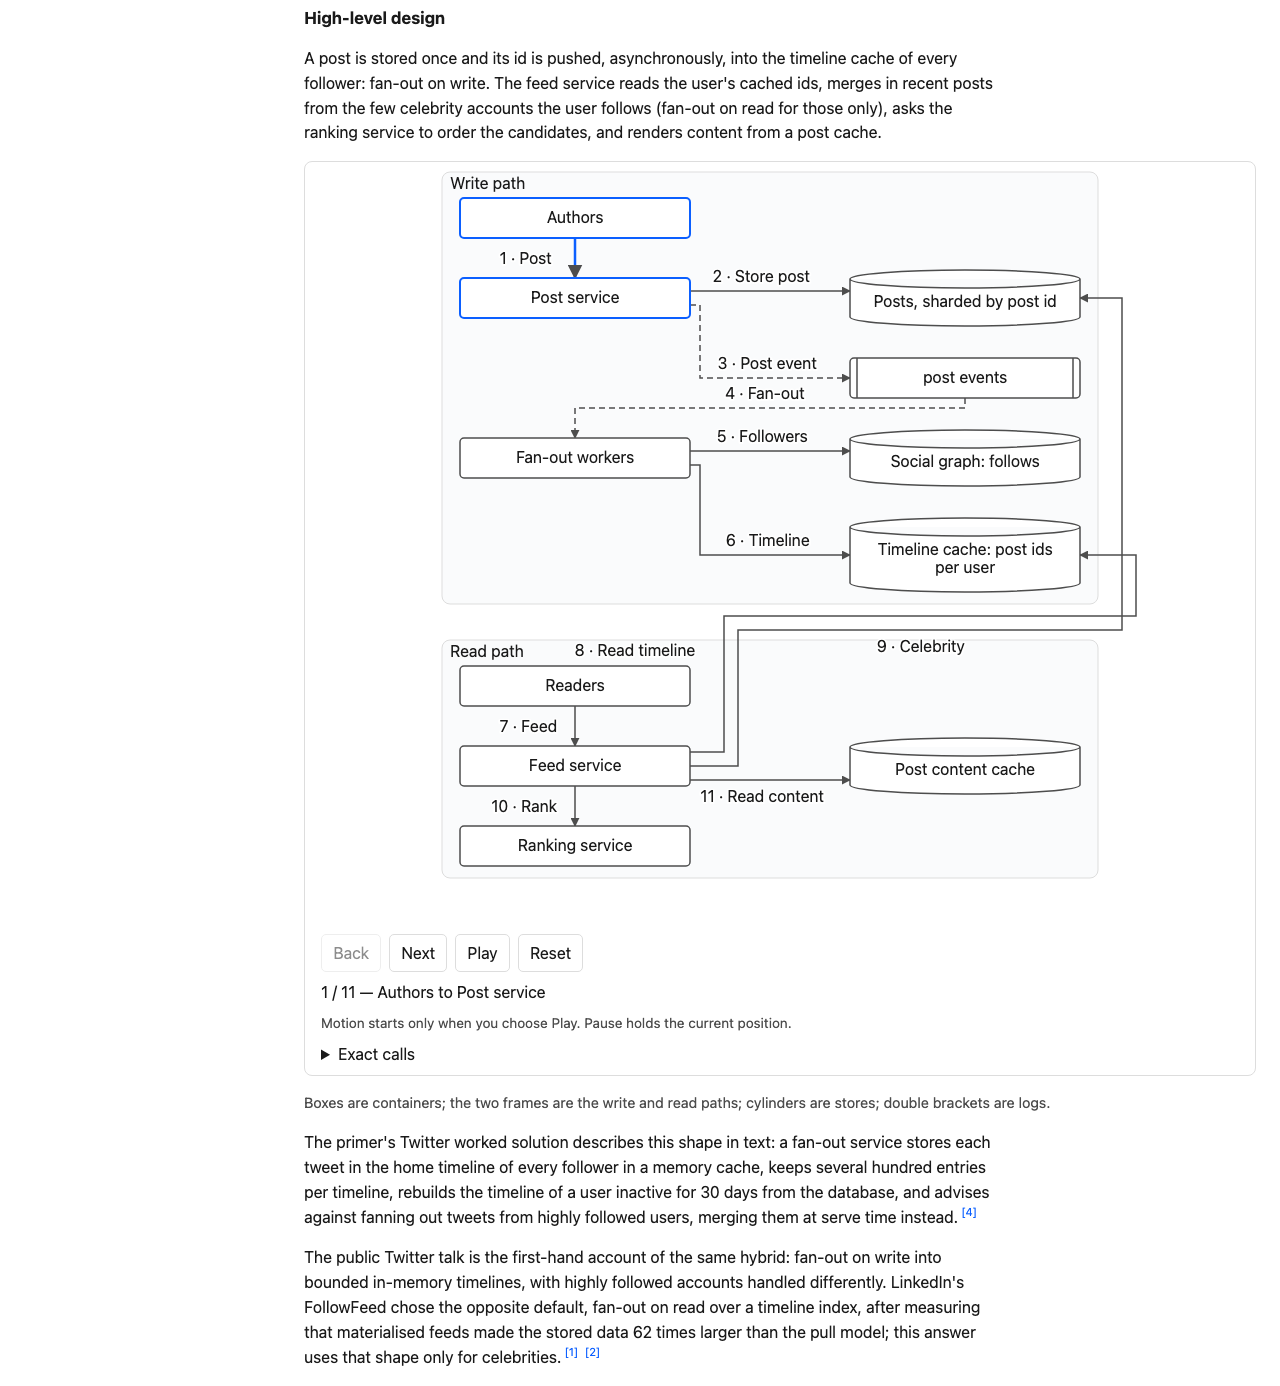
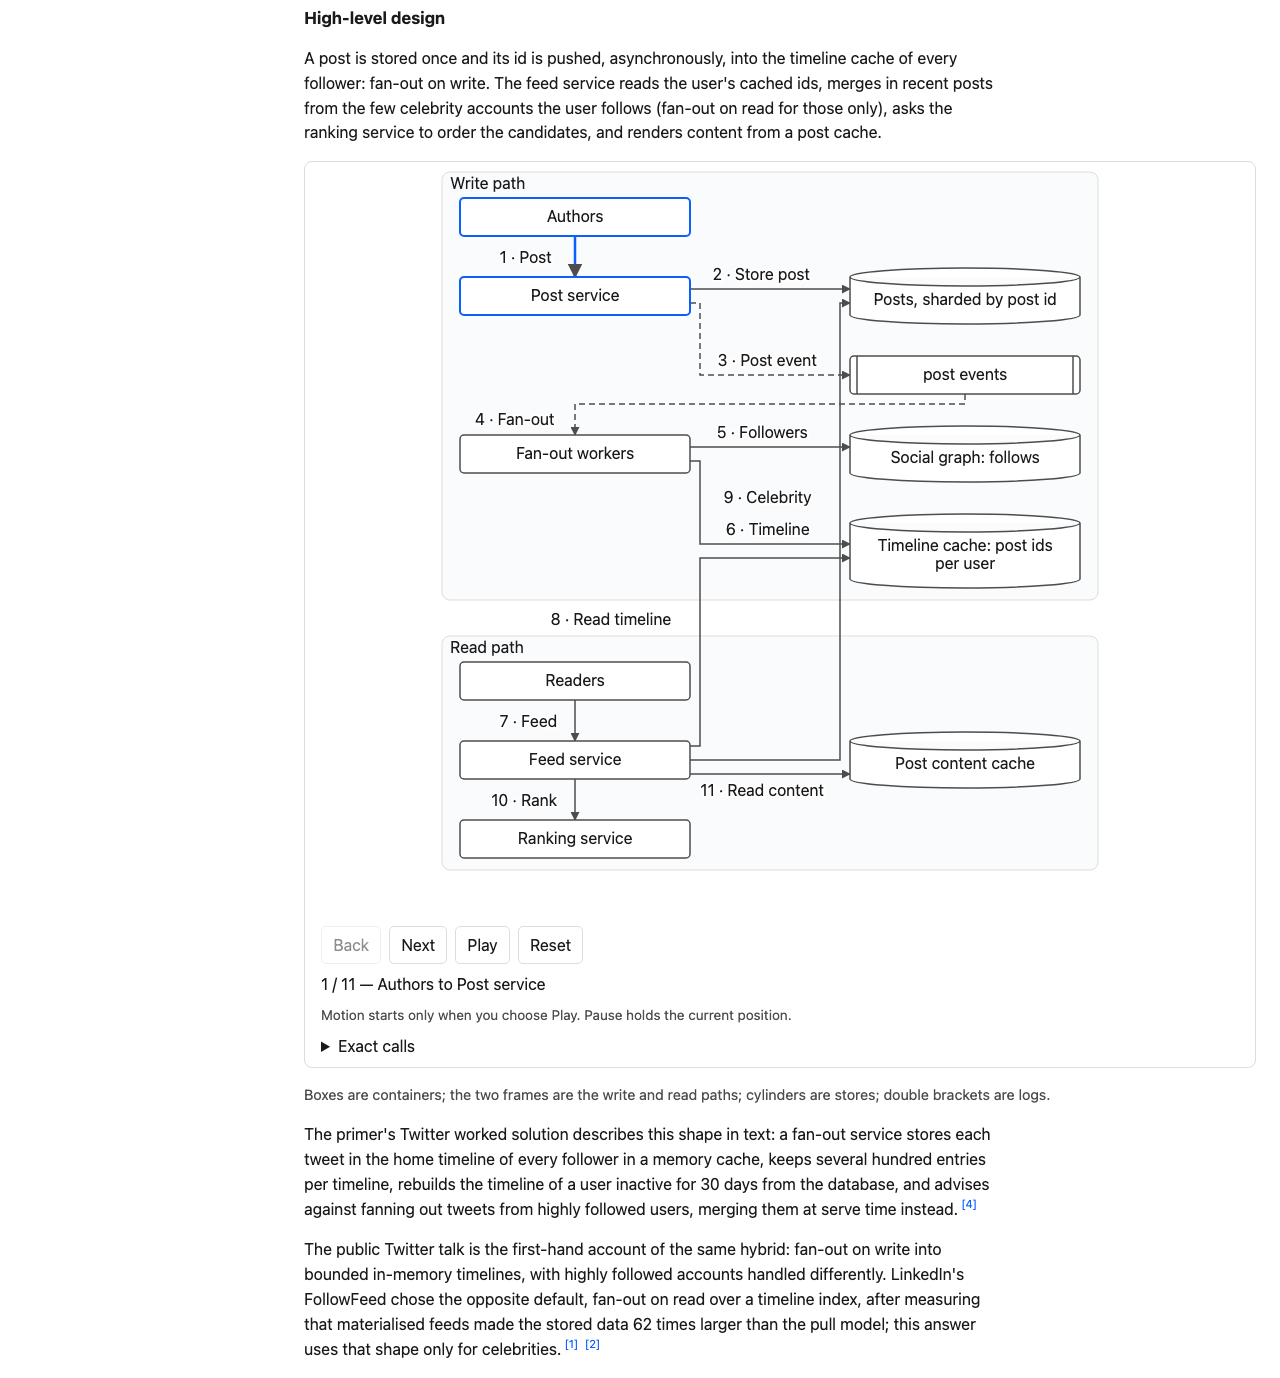
flow blocks: shorter routes for cross-frame edges in the news-feed high-level design, edge labels kept off frame title rows and borders, consecutive labels kept apart (geometry tests), shots re-taken

diff --git a/tools/build.py b/tools/build.py
@@ -489,7 +489,7 @@ def flow_layout(b: dict) -> dict:
     for n in nodes.values():
         n["lines"] = textwrap.wrap(n["label"], 24 if n["kind"] == "queue" else 26)
         n["w"] = box_width
-        n["h"] = max(40, len(n["lines"])*18 + (38 if n["kind"] == "store" else 16))
+        n["h"] = max(38, len(n["lines"])*18 + (38 if n["kind"] == "store" else 14))
     columns = {key: int(n["kind"] in ("store", "queue")) for key, n in nodes.items()}
     ranks = dict.fromkeys(nodes, 0)
     # Keep storage members of a frame together, so an unrelated regional store
@@ -548,7 +548,7 @@ def flow_layout(b: dict) -> dict:
             break
     title_lines = {f["id"]: textwrap.wrap(f["title"], 13) for f in groups}
     title_heights = {key: len(lines)*18+8 for key, lines in title_lines.items()}
-    y = 36
+    y = max([8]+[title_heights[owner[n]]+10 for n in nodes if ranks[n] == 0 and n in owner])
     for panel in panels:
         previous_row = []
         for rank in sorted({ranks[n] for n in panel}):
@@ -559,7 +559,9 @@ def flow_layout(b: dict) -> dict:
                 extra_gap = 0
                 for f in starts:
                     framed_before = any(n in owner and columns[n] == columns[f["nodes"][0]] for n in previous_row)
-                    extra_gap = max(extra_gap, title_heights[f["id"]]+(24 if framed_before else 12)-32)
+                    vertical_entry = any(n in f["nodes"] and any(columns[p] == columns[n] for p in incoming[n]) for n in row)
+                    extra_gap = max(extra_gap, title_heights[f["id"]]+(24 if framed_before else 12)
+                                    +(24 if vertical_entry else 0)-32)
                 y += extra_gap
             height = max(nodes[n]["h"] for n in row)
             for key in row:
@@ -585,9 +587,7 @@ def flow_layout(b: dict) -> dict:
     attachments = {}
     for i, edge in enumerate(b["edges"]):
         a, z = nodes[edge["from"]], nodes[edge["to"]]
-        if panel_of[edge["from"]] != panel_of[edge["to"]]:
-            pair = ("right", "right")
-        elif a["x"] == z["x"]:
+        if a["x"] == z["x"]:
             pair = ("bottom", "top") if a["y"] < z["y"] else ("top", "bottom")
         elif abs(a["y"]+a["h"]/2-z["y"]-z["h"]/2) < 2:
             pair = ("right", "left") if a["x"] < z["x"] else ("left", "right")
@@ -615,7 +615,6 @@ def flow_layout(b: dict) -> dict:
         return 0
 
     segments, routes = [], []
-    cross_count = 0
     for i, edge in enumerate(b["edges"]):
         start_side, end_side = sides[i]
         start_port = port(edge["from"], start_side, (i, "start"))
@@ -647,24 +646,6 @@ def flow_layout(b: dict) -> dict:
             return not any(overlap(a, z, c, d) > 0 for l, t, r, bot in borders
                            for c, d in (((l,t),(r,t)), ((r,t),(r,bot)), ((r,bot),(l,bot)), ((l,bot),(l,t))))
 
-        if panel_of[edge["from"]] != panel_of[edge["to"]]:
-            # Cross-panel reads take their own outside return tracks instead
-            # of threading a long vertical line through the write-path boxes.
-            panel = panels[panel_of[edge["from"]]]
-            panel_top = min((f["y"] for f in frames if any(n in panel for n in f["nodes"])),
-                            default=min(nodes[n]["y"] for n in panel))
-            guide_y = panel_top-24+cross_count*14
-            corridor_x = start[0]+24+cross_count*14
-            outer_x = width-24-cross_count*14
-            middle = [start, (corridor_x, start[1]), (corridor_x, guide_y),
-                      (outer_x, guide_y), (outer_x, end[1]), end]
-            if not all(clear(a, z) for a, z in zip(middle, middle[1:])):
-                raise BuildError(f"flow: no clear outside track for edge {i}")
-            route = [start_port]+middle+[end_port]
-            routes.append(route)
-            segments.extend(zip(route, route[1:]))
-            cross_count += 1
-            continue
         origin = (xs.index(start[0]), ys.index(start[1]), 0)
         target = (xs.index(end[0]), ys.index(end[1]))
         todo, distances, previous = [(0, origin)], {origin: 0}, {}
@@ -709,36 +690,43 @@ def flow_layout(b: dict) -> dict:
         routes.append(compact)
         segments.extend(zip(compact, compact[1:]))
     labels = []
+    label_obstacles = obstacles + [(f["x"]-4, f["y"]-4, f["x"]+f["w"]+4, f["title_box"][3]+4) for f in frames]
+    label_obstacles += [rect for l, t, r, bot in borders for rect in
+                        ((l-4, t-4, l+4, bot+4), (r-4, t-4, r+4, bot+4), (l-4, bot-4, r+4, bot+4))]
     label_order = sorted(range(len(routes)), key=lambda i: sum(abs(a[0]-z[0])+abs(a[1]-z[1]) for a, z in zip(routes[i], routes[i][1:])))
     for i in label_order:
         edge, route = b["edges"][i], routes[i]
         short = edge.get("short") or " ".join(edge["label"].split()[:3])
         text = f"{i+1} · {short}"
-        tw = len(text)*8.2
         candidates = []
-        for a, z in zip(route, route[1:]):
-            length = abs(a[0]-z[0])+abs(a[1]-z[1])
-            if length < 16:
-                continue
-            for fraction in (i/40 for i in range(4, 37)):
-                cx, cy = a[0]+(z[0]-a[0])*fraction, a[1]+(z[1]-a[1])*fraction
-                positions = [(cx+10, cy-9), (cx-tw-10, cy-9)] if a[0] == z[0] else [(cx-tw/2, cy-24), (cx-tw/2, cy+7)]
-                for lx, ly in positions:
-                    rect = (lx-3, ly-2, lx+tw+3, ly+20)
-                    if rect[0] < 4 or rect[2] > width-4 or rect[1] < 0:
-                        continue
-                    if any(max(rect[0], l) < min(rect[2], r) and max(rect[1], t) < min(rect[3], bot)
-                           for l, t, r, bot in obstacles+[item["box"] for item in labels]):
-                        continue
-                    if any((rect[0] < a[0] < rect[2] and max(min(a[1], z[1]), rect[1]) < min(max(a[1], z[1]), rect[3]))
-                           if a[0] == z[0] else (rect[1] < a[1] < rect[3] and max(min(a[0], z[0]), rect[0]) < min(max(a[0], z[0]), rect[2]))
-                           for a, z in segments):
-                        continue
-                    candidates.append((abs(fraction-.5)*30-length/100, lx, ly, rect))
+        for lines in ([text], textwrap.wrap(text, 12)):
+            tw, th = max(map(len, lines))*8.2, len(lines)*18
+            for a, z in zip(route, route[1:]):
+                length = abs(a[0]-z[0])+abs(a[1]-z[1])
+                if length < 16:
+                    continue
+                for fraction in (j/40 for j in range(4, 37)):
+                    cx, cy = a[0]+(z[0]-a[0])*fraction, a[1]+(z[1]-a[1])*fraction
+                    positions = [(cx+10, cy-th/2), (cx-tw-10, cy-th/2)] if a[0] == z[0] else [(cx-tw/2, cy-th-6), (cx-tw/2, cy+7)]
+                    for lx, ly in positions:
+                        rect = (lx-3, ly-2, lx+tw+3, ly+th+2)
+                        if rect[0] < 4 or rect[2] > width-4 or rect[1] < 0:
+                            continue
+                        if any(max(rect[0], l) < min(rect[2], r) and max(rect[1], t) < min(rect[3], bot)
+                               for l, t, r, bot in label_obstacles+[item["box"] for item in labels]):
+                            continue
+                        if any(abs(i-item["edge"]) == 1 and max(rect[0], item["box"][0]) < min(rect[2], item["box"][2])
+                               and max(rect[1]-item["box"][3], item["box"][1]-rect[3]) < 10 for item in labels):
+                            continue
+                        if any((rect[0] < a[0] < rect[2] and max(min(a[1], z[1]), rect[1]) < min(max(a[1], z[1]), rect[3]))
+                               if a[0] == z[0] else (rect[1] < a[1] < rect[3] and max(min(a[0], z[0]), rect[0]) < min(max(a[0], z[0]), rect[2]))
+                               for a, z in segments):
+                            continue
+                        candidates.append((len(lines)*100+abs(fraction-.5)*30-length/100, lx, ly, rect, lines))
         if not candidates:
             raise BuildError(f"flow: no clear space for edge label {text!r}")
-        _, lx, ly, rect = min(candidates)
-        labels.append(dict(text=text, x=lx, y=ly+15, box=rect))
+        _, lx, ly, rect, lines = min(candidates)
+        labels.append(dict(edge=i, text=text, lines=lines, x=lx, y=ly+15, box=rect))
     return dict(nodes=nodes, frames=frames, routes=routes, labels=labels, width=width, height=y-18)
 
 
@@ -772,7 +760,7 @@ def render_flow(b: dict, ident: str) -> str:
         baseline = y+(h-len(n["lines"])*18)/2+(18 if n["kind"] == "store" else 14)
         out.append(label(n["lines"], x+w/2, baseline, "flow-label") + '</g>')
     for item in g["labels"]:
-        out.append(label([item["text"]], item["x"], item["y"], "flow-edge-label"))
+        out.append(label(item["lines"], item["x"], item["y"], "flow-edge-label"))
     out += ['<circle class="flow-packet hidden" r="6"/>', '<circle class="flow-queued hidden" r="6"/>', '</svg>',
             '<div class="flow-controls">' + "".join(f'<button type="button" data-action="{action}">{text}</button>' for action, text in
             (("previous", "Back"), ("next", "Next"), ("play", "Play"), ("reset", "Reset"))) + '</div>',

diff --git a/tools/test_format_v2.py b/tools/test_format_v2.py
@@ -751,6 +751,17 @@ class Flows(unittest.TestCase):
                     self.assertLessEqual(frame["y"]+frame["h"], geometry["height"], "frame clipped by viewBox")
                 for item in geometry["labels"]:
                     left, top, right, bottom = item["box"]
+                    for frame in geometry["frames"]:
+                        l, t, r, bot = frame["x"], frame["y"], frame["x"]+frame["w"], frame["y"]+frame["h"]
+                        forbidden = [(l-4, t-4, r+4, frame["title_box"][3]+4),
+                                     (l-4, t-4, l+4, bot+4), (r-4, t-4, r+4, bot+4), (l-4, bot-4, r+4, bot+4)]
+                        for x1, y1, x2, y2 in forbidden:
+                            self.assertFalse(max(left, x1) < min(right, x2) and max(top, y1) < min(bottom, y2),
+                                             "edge label sits on a frame title row or border")
+                    for other in geometry["labels"]:
+                        if abs(item["edge"]-other["edge"]) == 1 and max(left, other["box"][0]) < min(right, other["box"][2]):
+                            self.assertGreaterEqual(max(top-other["box"][3], other["box"][1]-bottom), 10,
+                                                    "consecutive call labels crowd vertically")
                     for route in geometry["routes"]:
                         for a, z in zip(route, route[1:]):
                             crossed = (left < a[0] < right and max(min(a[1], z[1]), top) < min(max(a[1], z[1]), bottom)) if a[0] == z[0] else (
@@ -779,6 +790,15 @@ class Flows(unittest.TestCase):
                 self.assertEqual(len(route), 2, "entry chain must not wrap around a frame")
                 self.assertEqual(route[0][0], route[1][0])
         self.assertLessEqual(build.flow_layout(halves[0])["height"], 750)
+        neutral = next(b for b in section(news, "high-level-design")["blocks"] if b["type"] == "flow")
+        geometry = build.flow_layout(neutral)
+        for edge, route in zip(neutral["edges"], geometry["routes"]):
+            if edge["from"] == "FS" and edge["to"] in ("TL", "PDB"):
+                distance = sum(abs(a[0]-z[0])+abs(a[1]-z[1]) for a, z in zip(route, route[1:]))
+                direct = abs(route[0][0]-route[-1][0])+abs(route[0][1]-route[-1][1])
+                self.assertLessEqual(distance, direct+40, "cross-frame read takes a long loop")
+                self.assertLessEqual(max(p[0] for p in route), geometry["nodes"][edge["to"]]["x"],
+                                     "cross-frame read goes around the far side of its store")
 
     def test_exercise_accepts_flow_architecture(self):
         doc = json.loads((FIXTURES / f"{EXERCISE}.json").read_text())

diff --git a/README.md b/README.md
@@ -132,7 +132,7 @@ A lesson file with `schema_version: "learning-center-lesson:2"` holds typed bloc
 
 Authors supply text, never SVG or coordinates. `nodes` contains 1–12 unique ids, non-empty labels and kinds `service`, `store` (cylinder), `queue` (double-bar box), or `actor`. Optional `frames` have unique ids, titles and non-overlapping node lists; frames cannot nest. Edges reference nodes, have non-empty labels, optional unique ids and kind `sync` (default), `async` or `reply`. Optional `short` is a non-empty one-line label drawn beside the arrow (otherwise the first three words of `label` are used); the full label stays in Exact calls and the SVG title. Each step references an edge by zero-based index or id and supplies a one-line caption, in request order; every edge needs a step. Legend source ids must be in the block's `cites`, which resolve to lesson sources and render as the same linked marks as diagram legends.
 
-`tools/build.py` computes deterministic request ranks: actors/services share a straight main column, stores/queues sit beside it, frame members pack together, and independently actor-rooted frames form stacked panels. Each edge has a distinct port/track, with an orthogonal shortest-path router that penalizes bends and refuses shared trunks or frame-border runs. Cross-panel calls use separate outside return tracks. Frames have visible gaps; their top-left title tabs reserve a measured band, leaving the main column's vertical entry clear. Cylinder labels start below the lid. Numbered short labels correspond to the expandable ordered **Exact calls** list; geometry tests cover titles, frames, lids, straight entry chains and independent tracks. `assets/flow.css` and `assets/flow.js` load only on pages containing flow blocks, with no CDN, inline script or event handlers. Back/Next/Reset are manual; Play/Pause is opt-in, a solid synchronous call returns a hollow reply, and an asynchronous event parks at a queue until consumption. Reduced-motion disables Play and leaves keyboard-operable manual steps; captions are aria-live, and the static SVG, Exact calls and noscript explanation work without JavaScript.
+`tools/build.py` computes deterministic request ranks: actors/services share a straight main column, stores/queues sit beside it, frame members pack together, and independently actor-rooted frames form stacked panels. Each edge has a distinct port/track, with an orthogonal shortest-path router that penalizes bends and refuses shared trunks or frame-border runs. Cross-panel calls use the same shortest-path routing and attach to the near side of their destination rather than looping around a frame. Frames have visible gaps; their top-left title tabs reserve a measured band, leaving the main column's vertical entry clear. Labels avoid the entire frame-title row and frame borders; consecutive labels with overlapping horizontal extents have at least 10 px vertical separation. A short label may wrap rather than collide with a frame. Cylinder labels start below the lid. Numbered short labels correspond to the expandable ordered **Exact calls** list; geometry tests cover titles, frames, label spacing, short cross-frame routes, lids, straight entry chains and independent tracks. `assets/flow.css` and `assets/flow.js` load only on pages containing flow blocks, with no CDN, inline script or event handlers. Back/Next/Reset are manual; Play/Pause is opt-in, a solid synchronous call returns a hollow reply, and an asynchronous event parks at a queue until consumption. Reduced-motion disables Play and leaves keyboard-operable manual steps; captions are aria-live, and the static SVG, Exact calls and noscript explanation work without JavaScript.
 
 - `python3 tools/test_format_v2.py` holds a negative test per rule and renders the fixtures; `python3 tools/chrome_check.py --page format-v2-x=/path` checks a page at 1280 and 820 px (desktop and iPad; nothing below 820 is a target).
 
